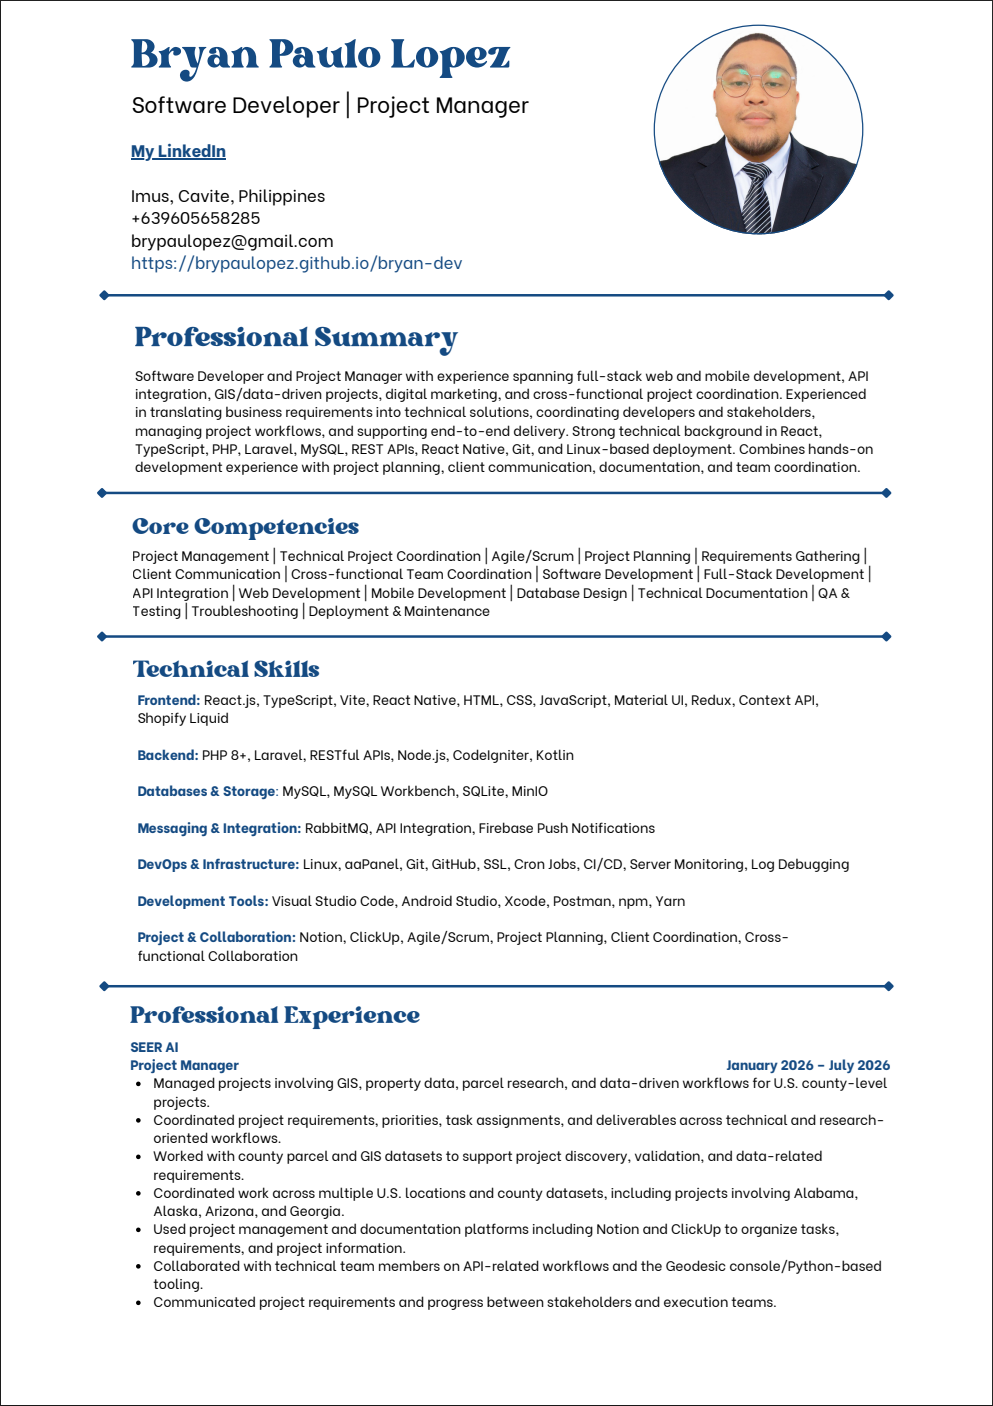
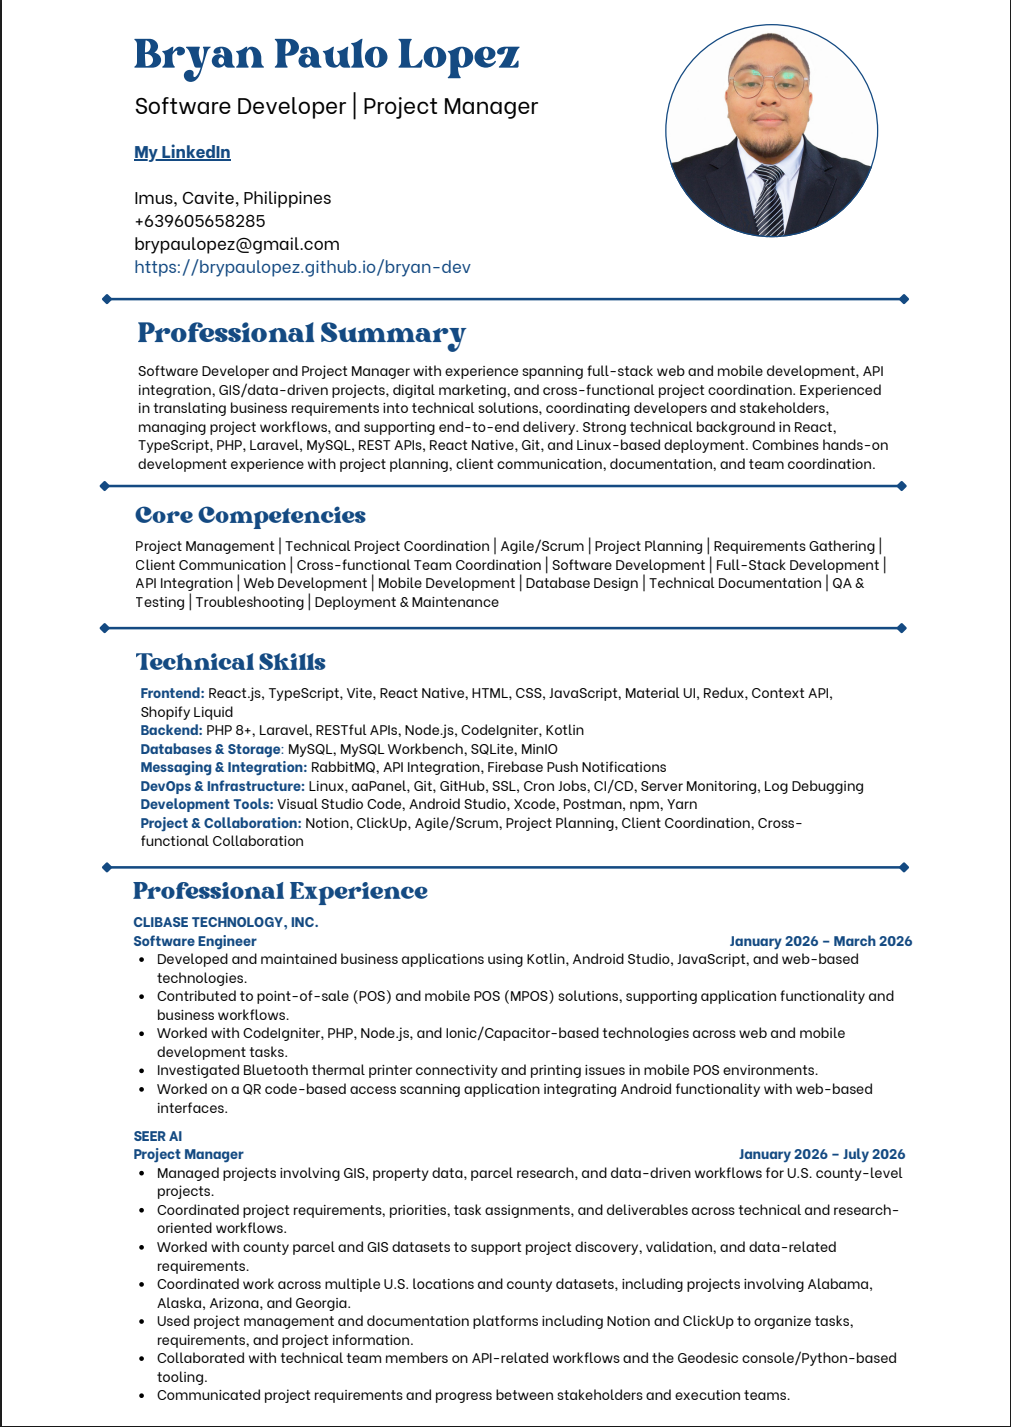
fixed: readme.md and updated my resume

diff --git a/README.md b/README.md
@@ -1,84 +1,45 @@
-<<<<<<< HEAD
-<<<<<<< HEAD
-# my-portfolio
-My own Portfolio
-=======
-=======
->>>>>>> 96e529b (V1 of my Portfolio)
-# React + TypeScript + Vite
+# Bryan Lopez — Developer Portfolio
 
-This template provides a minimal setup to get React working in Vite with HMR and some ESLint rules.
+Welcome to my personal developer portfolio! This project showcases my background, technical skills, selected projects, and experience in software development.
 
-Currently, two official plugins are available:
+## About the Project
 
-- [@vitejs/plugin-react](https://github.com/vitejs/vite-plugin-react/blob/main/packages/plugin-react) uses [Babel](https://babeljs.io/) (or [oxc](https://oxc.rs) when used in [rolldown-vite](https://vite.dev/guide/rolldown)) for Fast Refresh
-- [@vitejs/plugin-react-swc](https://github.com/vitejs/vite-plugin-react/blob/main/packages/plugin-react-swc) uses [SWC](https://swc.rs/) for Fast Refresh
+A personal portfolio website built to present my work, technical expertise, and professional journey as a developer. It features a modern, responsive interface with dedicated sections for my introduction, services, portfolio, resume, blog, and contact information.
 
-## React Compiler
+## Tech Stack
 
-The React Compiler is not enabled on this template because of its impact on dev & build performances. To add it, see [this documentation](https://react.dev/learn/react-compiler/installation).
+- **Frontend:** React, TypeScript
+- **Build Tool:** Vite
+- **Routing:** React Router
+- **Styling:** CSS
+- **PDF Viewer:** React PDF
+- **Deployment:** GitHub Pages
 
-## Expanding the ESLint configuration
+## Features
 
-If you are developing a production application, we recommend updating the configuration to enable type-aware lint rules:
+- Responsive design for desktop, tablet, and mobile devices
+- Interactive navigation with animated section transitions
+- Dedicated pages for About, Services, Portfolio, Resume, Blog, and Contact
+- Embedded resume viewer
+- Contact section for professional inquiries
+- Reusable React components and TypeScript
 
-```js
-export default defineConfig([
-  globalIgnores(['dist']),
-  {
-    files: ['**/*.{ts,tsx}'],
-    extends: [
-      // Other configs...
+## Live Demo
 
-      // Remove tseslint.configs.recommended and replace with this
-      tseslint.configs.recommendedTypeChecked,
-      // Alternatively, use this for stricter rules
-      tseslint.configs.strictTypeChecked,
-      // Optionally, add this for stylistic rules
-      tseslint.configs.stylisticTypeChecked,
+Visit my portfolio: [Bryan Lopez — Developer Portfolio](https://bryanpaulopez.github.io/bryan-dev/)
 
-      // Other configs...
-    ],
-    languageOptions: {
-      parserOptions: {
-        project: ['./tsconfig.node.json', './tsconfig.app.json'],
-        tsconfigRootDir: import.meta.dirname,
-      },
-      // other options...
-    },
-  },
-])
-```
+## Source Code
 
-You can also install [eslint-plugin-react-x](https://github.com/Rel1cx/eslint-react/tree/main/packages/plugins/eslint-plugin-react-x) and [eslint-plugin-react-dom](https://github.com/Rel1cx/eslint-react/tree/main/packages/plugins/eslint-plugin-react-dom) for React-specific lint rules:
+Explore the repository: [GitHub — brypaulopez/bryan-dev](https://github.com/brypaulopez/bryan-dev)
 
-```js
-// eslint.config.js
-import reactX from 'eslint-plugin-react-x'
-import reactDom from 'eslint-plugin-react-dom'
+## Contact
 
-export default defineConfig([
-  globalIgnores(['dist']),
-  {
-    files: ['**/*.{ts,tsx}'],
-    extends: [
-      // Other configs...
-      // Enable lint rules for React
-      reactX.configs['recommended-typescript'],
-      // Enable lint rules for React DOM
-      reactDom.configs.recommended,
-    ],
-    languageOptions: {
-      parserOptions: {
-        project: ['./tsconfig.node.json', './tsconfig.app.json'],
-        tsconfigRootDir: import.meta.dirname,
-      },
-      // other options...
-    },
-  },
-])
-```
-<<<<<<< HEAD
->>>>>>> 96e529b (V1 of my Portfolio)
-=======
->>>>>>> 96e529b (V1 of my Portfolio)
+- **GitHub:** [@brypaulopez](https://github.com/brypaulopez)
+- **LinkedIn:** [Bryan Paulo Lopez](https://www.linkedin.com/in/bryan-paulo-lopez-20a683303/)
+- **Email:** [brypaulopez@gmail.com](mailto:brypaulopez@gmail.com)
+
+---
+
+Built with React, TypeScript, and a passion for creating practical, user-friendly digital experiences.
+
+© 2026 Bryan Lopez. All rights reserved.
